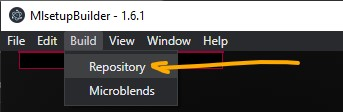
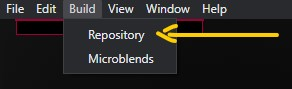
updated help images + removed no preview in the microblends gallery

diff --git a/js/interface.js b/js/interface.js
@@ -23,7 +23,7 @@ async function abuildMB(microblendObj){
     if ((microblendObj.hasOwnProperty("microblends")) && (microblendObj.hasOwnProperty("package")) ){
       for (k=0, j=microblendObj.microblends.length;k<j;k++){
         $("#mbSelect").append("<option data-package='"+microblendObj.package+"' data-thumbnail='./images/"+microblendObj.microblends[k].name+".png' value='base\\surfaces\\microblends\\"+microblendObj.microblends[k].name+".xbm'>"+microblendObj.microblends[k].name+"</option>");
-				$("#cagethemicroblends").append("<li style=\"background-image:url('./images/thumbs/"+microblendObj.microblends[k].name+".png'),url('images/thumbs/_nopreview.gif'); '\" data-package='"+microblendObj.package+"'  data-toggle='tooltip' title='"+microblendObj.microblends[k].name+"'> </li>");
+				$("#cagethemicroblends").append("<li style=\"background-image:url('./images/thumbs/"+microblendObj.microblends[k].name+".png'); '\" data-package='"+microblendObj.package+"'  data-toggle='tooltip' title='"+microblendObj.microblends[k].name+"'> </li>");
       }
     }
   }
